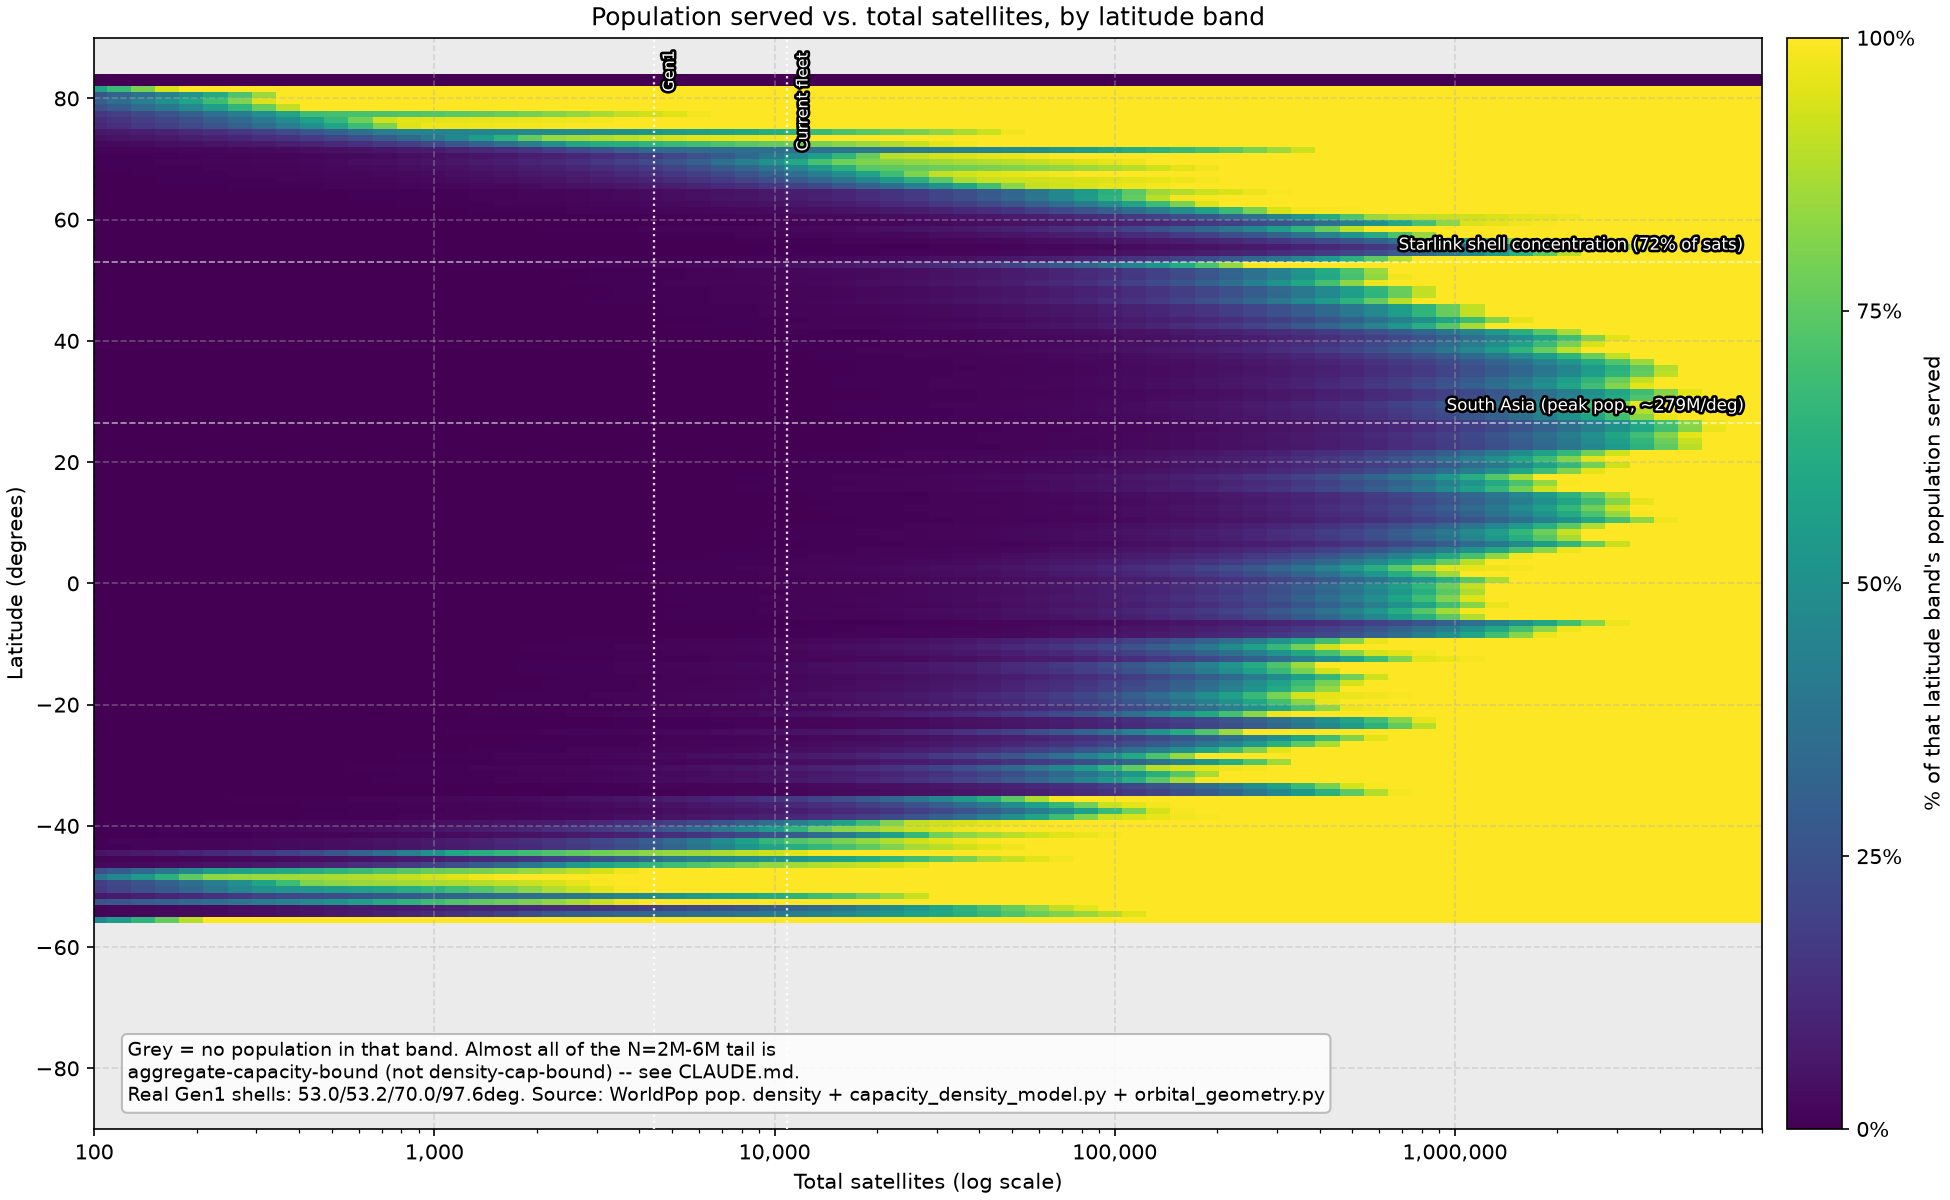
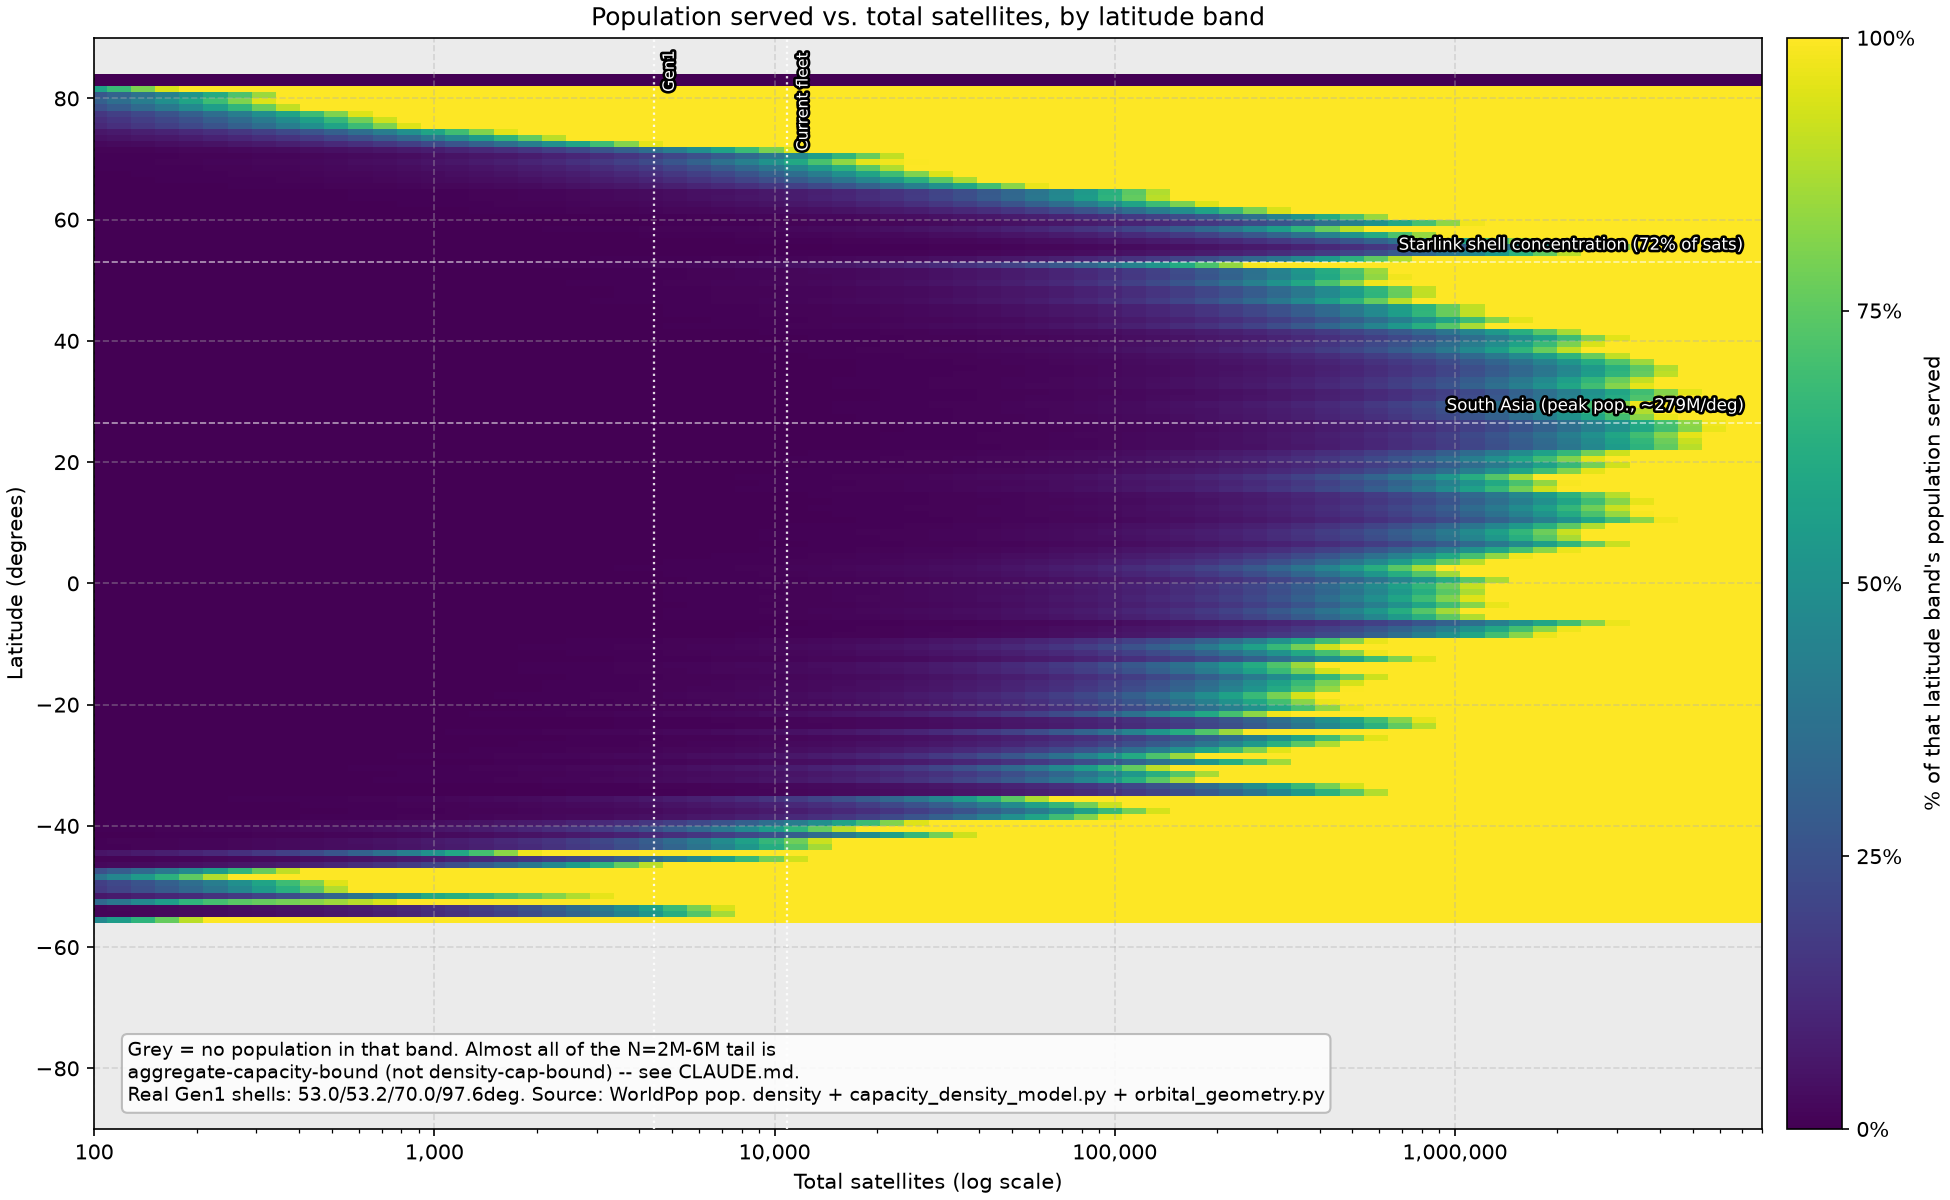
Regenerate saturation heatmaps for range-extended density-cap fix; doc updates
Regenerates latitude_saturation_heatmap.png/_log.png and the US per-satellite
-cap linear chart, all consumers of served_fraction_by_latitude() /
serviceable_customers_per_satellite_cap(), which now use range-extended
satellite counts for the density-cap term per the previous commit.

Also fixes now-stale "satellites-overhead-weighted" wording in
serviceable_customers_per_satellite_chart.py (module docstring + two info
boxes) to describe the actual range-extended mechanism, and documents the
whole change in CLAUDE.md. Remaining charts (global per-satellite-cap,
servable-density-vs-satellites) are still regenerating and will follow in a
separate commit.

Changed region(s): [[0.0615, 0.6783, 0.5846, 0.7708], [0.1846, 0.0925, 0.6769, 0.185], [0.7077, 0.1542, 0.7692, 0.185]]

diff --git a/starlink-equilibrium-model/charts/serviceable_customers_per_satellite_chart.py b/starlink-equilibrium-model/charts/serviceable_customers_per_satellite_chart.py
@@ -3,11 +3,13 @@ variant (user request, 2026-08-10). A SEPARATE chart family from
 charts/serviceable_customers_chart.py, not a replacement for it: that file's model
 holds the areal beam-footprint density cap FIXED regardless of satellite count N
 (capacity_density_model.py's original documented assumption). Here the cap scales
-PER SATELLITE instead -- more satellites overhead a latitude band raises the local
-areal ceiling too (N x base_cap), not just the aggregate per-satellite capacity
-ceiling. See serviceable_customers_model.py's "Per-satellite density cap variant"
-section for the full mechanism and why it changes the curve's shape (approaches raw
-population at high N instead of sitting at a permanent ceiling).
+PER SATELLITE instead -- more satellites able to REACH a latitude band (range-
+extended, not overhead-only -- see serviceable_customers_model.sats_reaching_latitude())
+raises the local areal ceiling too (N x base_cap), not just the aggregate
+per-satellite capacity ceiling (which stays overhead-only, unchanged). See
+serviceable_customers_model.py's "Per-satellite density cap variant" section for
+the full mechanism and why it changes the curve's shape (approaches raw population
+at high N instead of sitting at a permanent ceiling).
 
 Both charts here overlay the FIXED-cap curve (dashed) against the new PER-SATELLITE
 -cap curve (solid, same color) so the difference the assumption makes is visible
@@ -206,8 +208,8 @@ def fig_serviceable_vs_satellites_us_per_satellite_cap_linear(us_grid_1km: pdg.P
 
 # --------------------------------------------------------------------------------------
 # Chart 3: servable population DENSITY (not customer count) vs. total satellites --
-# ONE curve for the real Starlink shell profile (satellites-overhead-weighted average
-# across all covered latitudes), not a per-latitude breakout.
+# ONE curve for the real Starlink shell profile (range-extended-satellites-weighted
+# average across all covered latitudes), not a per-latitude breakout.
 # --------------------------------------------------------------------------------------
 def fig_servable_density_vs_satellites():
     sat_counts = np.geomspace(100, 2_000_000, 40)
@@ -233,7 +235,7 @@ def fig_servable_density_vs_satellites():
 
     info_box.add_info_box(
         ax, fig,
-        "Satellites-overhead-weighted average density ceiling across the real\n"
+        "Range-extended-satellites-weighted average density ceiling across the real\n"
         "shell profile (dominated by the 53deg shells, 72% of satellites).\n"
         + SHELL_RATIO_NOTE + ". " + SOURCE_NOTE,
         mode="on",
@@ -271,7 +273,7 @@ def fig_servable_density_vs_satellites_linear():
 
     info_box.add_info_box(
         ax, fig,
-        "Satellites-overhead-weighted average density ceiling across the real\n"
+        "Range-extended-satellites-weighted average density ceiling across the real\n"
         "shell profile (dominated by the 53deg shells, 72% of satellites).\n"
         + SHELL_RATIO_NOTE + ". " + SOURCE_NOTE,
         mode="on",

diff --git a/starlink-equilibrium-model/CLAUDE.md b/starlink-equilibrium-model/CLAUDE.md
@@ -1706,3 +1706,83 @@ latitude second, matching twiny's x-varies/y-shared convention). Left
 unchanged -- it already has a correctly-oriented sibling
 (`population_by_latitude_horizontal.png`), so "fixing" it would just create a
 duplicate of that chart under a different name.
+
+## Range-extended satellite counts for the per-satellite density-cap term (2026-08-12)
+
+User asked: "Do we have to regenerate the heatmaps with the new sat FOV?" -- the
+new range-extended satellite-density geometry from the previous session
+(`orbital_geometry.expected_sats_reaching_latitude()`) existed but the
+per-satellite-cap model (`serviceable_customers_model.py`) still computed its
+areal density cap from OVERHEAD-ONLY satellite counts
+(`sats_overhead_by_latitude()`), not the range-extended ones -- an inconsistency
+between the new geometry and the model that uses it. Before touching anything,
+worked out which of the model's TWO satellite-count terms should actually change:
+
+- **Areal density-cap term** (`base_cap x sats`, in `effective_density_cap_by_latitude()`):
+  range-extension is VALID here. Different satellites reaching the same ground
+  spot can each independently contribute their own beam allowance -- that's the
+  whole premise of the per-satellite-cap model (more satellites overhead/reachable
+  = more simultaneous beam capacity available at that spot).
+- **Aggregate capacity term** (`customers_per_satellite x sats`, in
+  `capacity_by_latitude()` and the supply side of `served_fraction_by_latitude()`
+  / `serviceable_customers_per_satellite_cap()`): range-extension is INVALID here.
+  A satellite has ONE finite customer-capacity budget. Counting it toward every
+  latitude its coverage circle reaches (not just its own sub-satellite point)
+  would multiply-count that budget -- the same satellite serving 6,704 customers
+  claimed simultaneously at both 40deg and 50deg, which isn't physically real (a
+  satellite's total capacity is shared across whichever users it actually talks to
+  at once, not duplicated per latitude band it merely CAN reach).
+
+Presented this distinction to the user via `AskUserQuestion`; they confirmed
+"Yes, use range-extended (recommended)" for the density-cap term specifically,
+leaving the capacity term untouched.
+
+**Changes in `serviceable_customers_model.py`**:
+- New `sats_reaching_latitude()` -- thin wrapper around
+  `og.expected_sats_reaching_latitude()`, the range-extended counterpart to the
+  existing `sats_overhead_by_latitude()`. Docstring states the validity split above
+  so a future reader doesn't "fix" the two terms to match each other.
+- `effective_density_cap_by_latitude()` now calls `sats_reaching_latitude()`
+  instead of `sats_overhead_by_latitude()`.
+- `effective_density_cap_profile_average()` simplified: instead of a second,
+  redundant range-extension pass to build its weight array, it now reuses
+  `effective_density_cap_by_latitude()`'s own output as the weight (mathematically
+  identical, since `cap = base_cap x sats` is a constant multiple that cancels in
+  the weighted-average ratio).
+- `serviceable_customers_per_satellite_cap()` and `served_fraction_by_latitude()`
+  (the function driving the saturation heatmaps) both now call
+  `effective_density_cap_by_latitude()` for the demand/density side and keep their
+  own separate, unchanged `sats_overhead_by_latitude()` call for the
+  supply/capacity side -- previously both functions inlined ONE shared
+  `sats_overhead_by_latitude()` call for both terms, which is exactly the
+  conflation this fix corrects.
+
+**Numeric sanity check at N=4,408 (Gen1)**: peak overhead satellite count is
+~144 (at 52.5deg); peak range-extended (reaching) count is ~870 (at 45.5deg,
+shifted -- a wider window pulls the peak toward the broader mid-latitude mass, not
+just the sharpest overhead spike). Range-extended >= overhead everywhere covered,
+as required. `effective_density_cap_profile_average(4408)` moved from a much
+smaller overhead-weighted figure to **~1,464 people/km2** (base cap 2.57/km2 x
+~570, i.e. roughly the range-extended-to-overhead ratio) -- makes the areal
+density cap dramatically less binding than before, which is the physically
+correct direction: a user can be served by ANY satellite whose coverage circle
+reaches them, not only one exactly overhead, so the true local capacity was being
+understated pre-fix.
+
+**Downstream effect on the saturation heatmaps**: confirms the user's implicit
+question -- yes, they needed regenerating, and the answer to "why" is that the
+model itself (not just a display change) was recomputed. Because the density term
+is now far less binding, the heatmaps show saturation happening EARLIER (lower N)
+across most latitude bands than before -- consistent with, and reinforcing, the
+"aggregate-capacity-bound, not density-bound" finding from the previous session's
+heatmap section: with the density cap loosened further, capacity is left as an
+even more clearly dominant bottleneck for the long tail of the curve.
+
+**Regenerated** (all via their normal chart scripts, not by hand):
+`serviceable_customers_vs_satellites_global_per_satellite_cap.png` (+ `_linear`),
+`serviceable_customers_vs_satellites_us_per_satellite_cap.png` (+ `_linear`),
+`servable_density_vs_satellites.png` (+ `_linear`), `latitude_saturation_heatmap.png`,
+`latitude_saturation_heatmap_log.png`. Also fixed now-stale info-box/docstring
+wording in `charts/serviceable_customers_per_satellite_chart.py` that still said
+"satellites-overhead-weighted" for the servable-density chart's averaging --
+updated to "range-extended-satellites-weighted" to match the actual mechanism.
